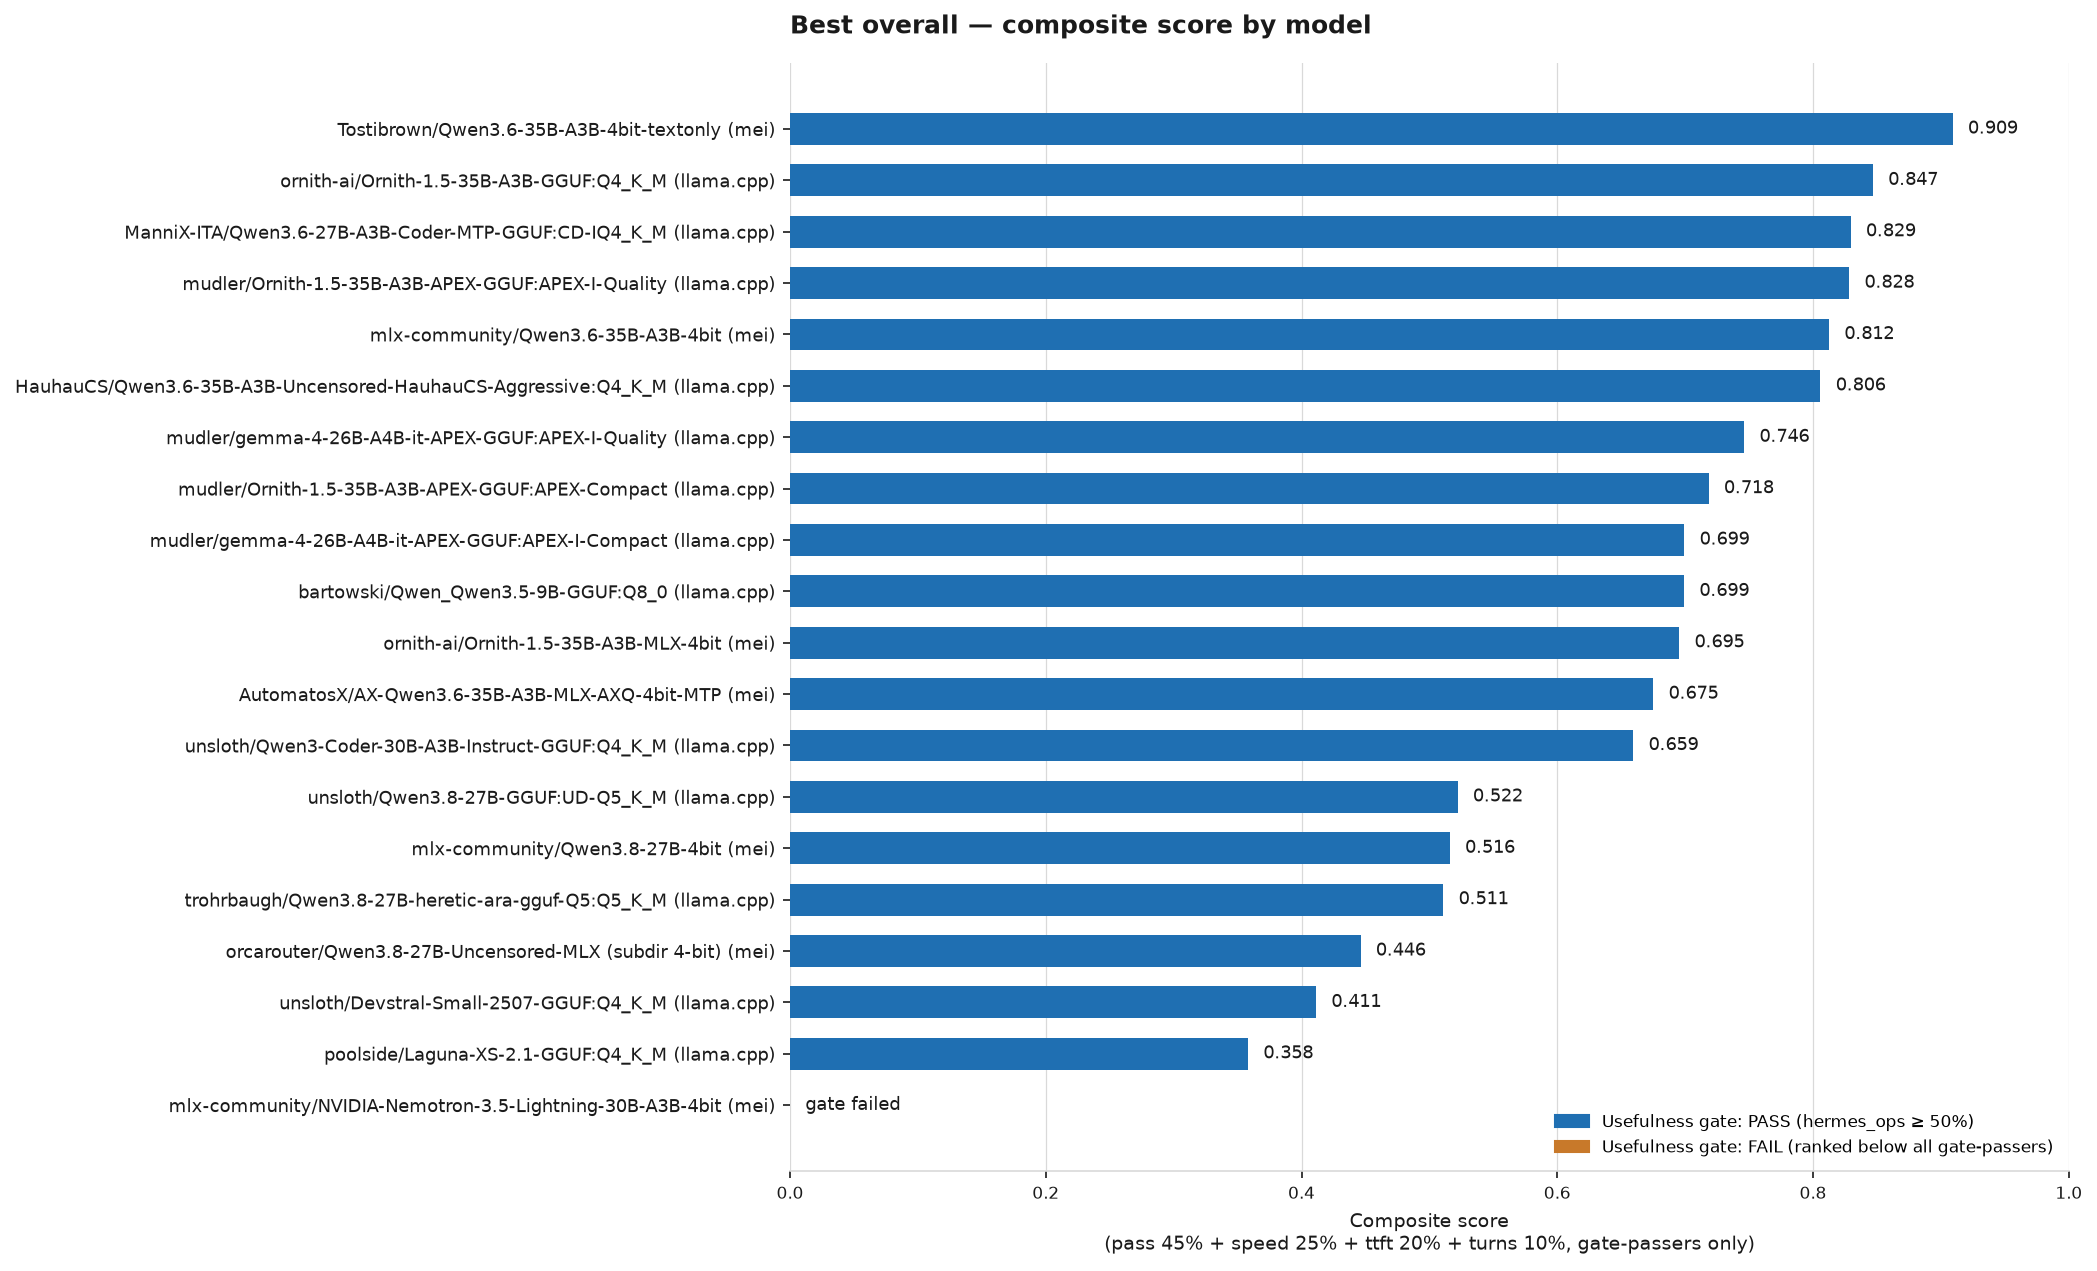
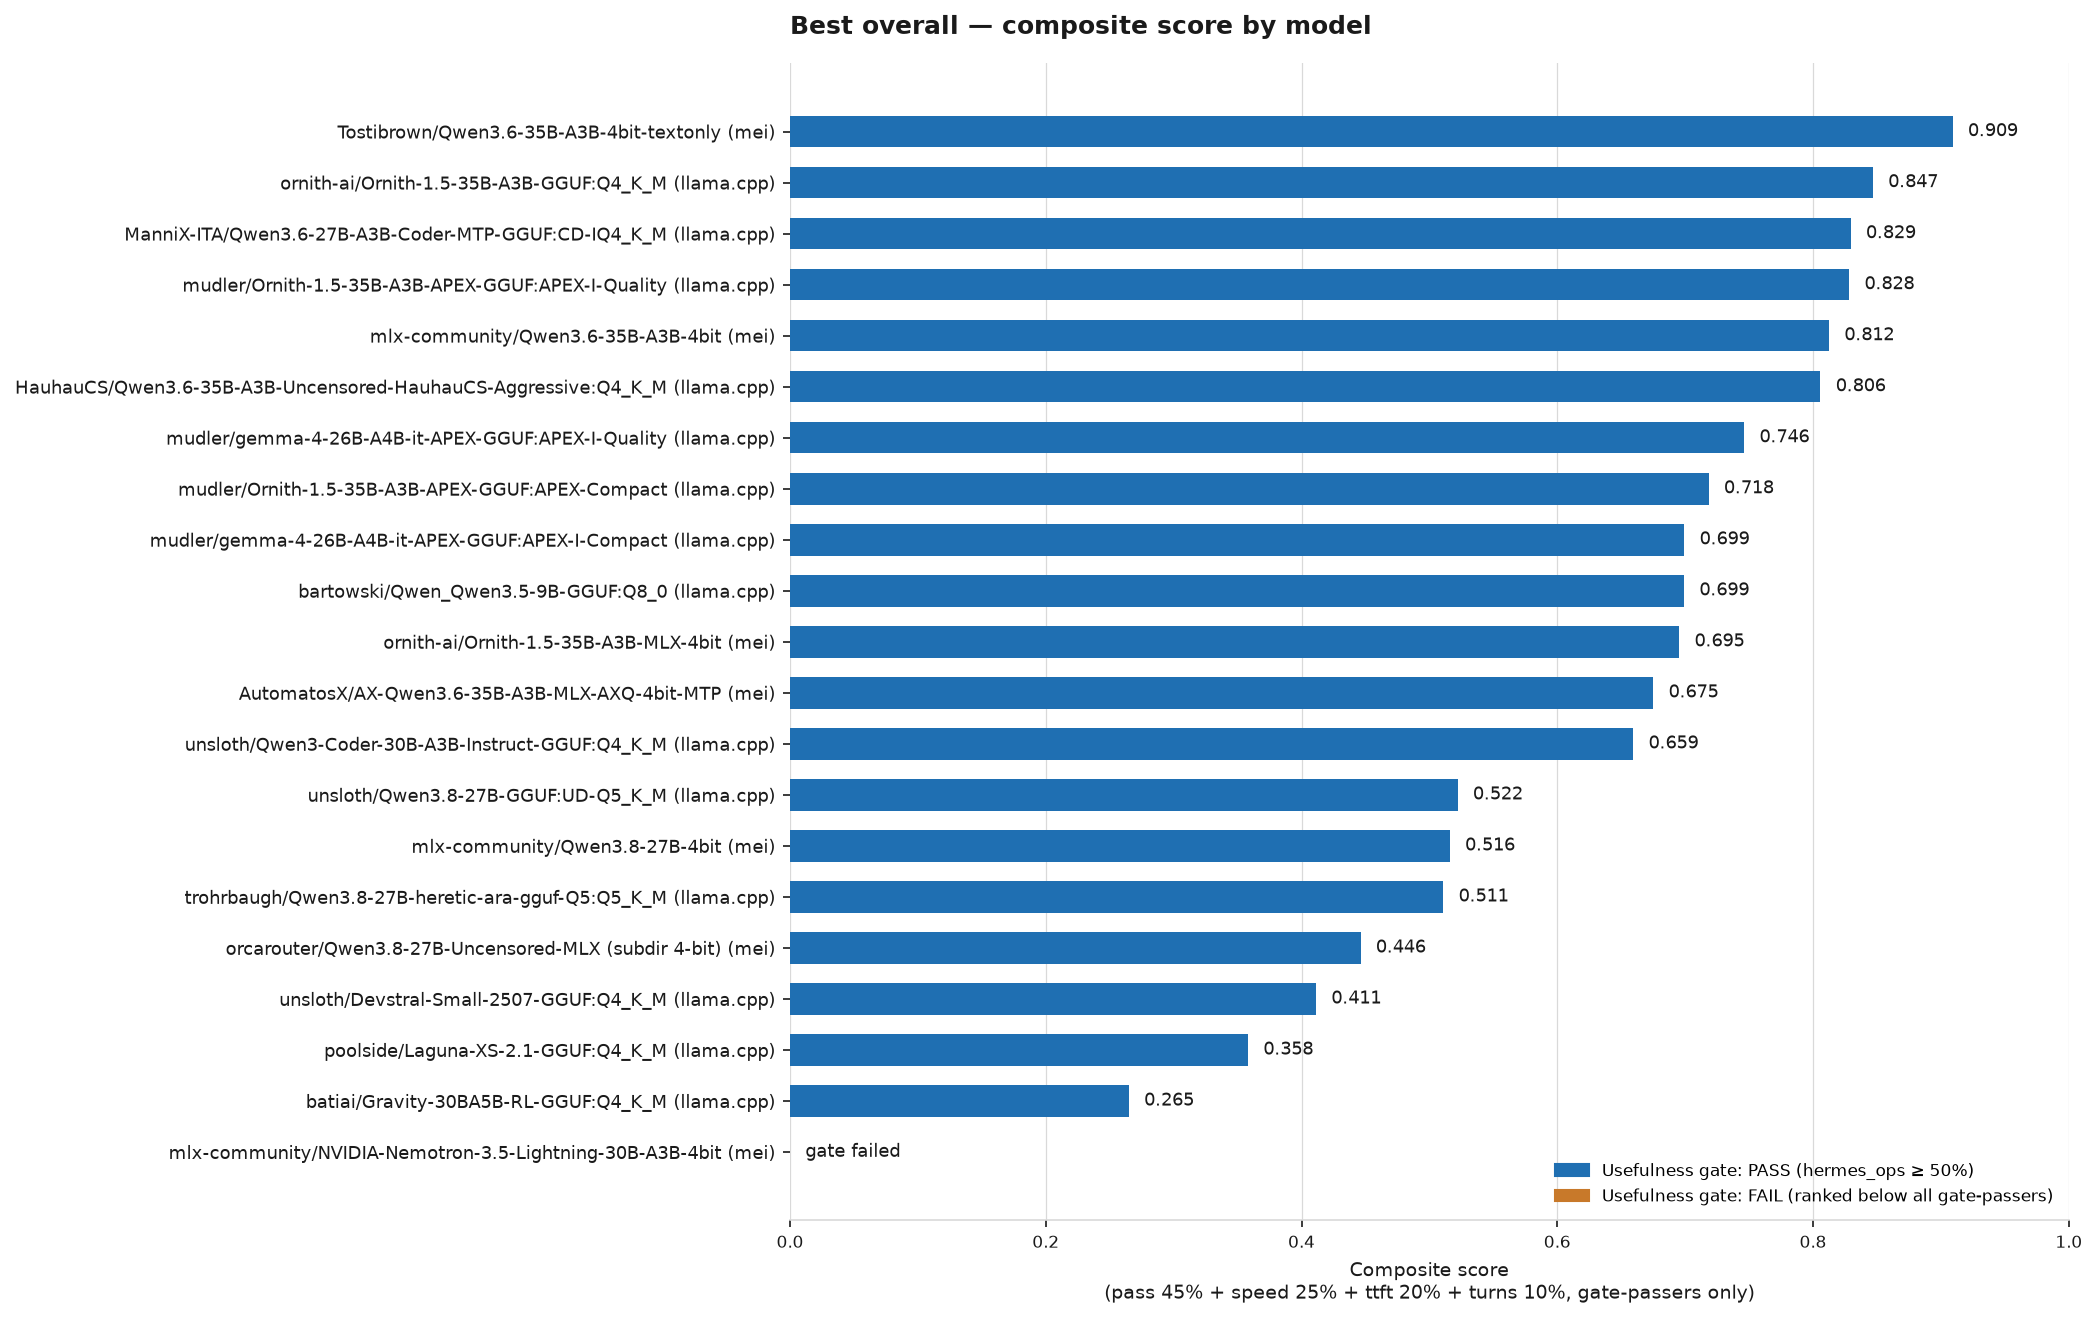
results: preserve complete Gravity RL Q4_K_M benchmark leg

diff --git a/results/LEADERBOARD.md b/results/LEADERBOARD.md
@@ -3,7 +3,7 @@
 Regenerated from `log.jsonl` by `runner/build_leaderboard.py` — do not
 hand-edit rows below, edit the log and regenerate instead.
 
-> **⚠ 138/4145 rows below predate 2026-08-21
+> **⚠ 138/4185 rows below predate 2026-08-21
 > grading fixes** (no `runner_git_sha` — that field didn't exist yet).
 > **Do not treat any pre-2026-08-21 PASS/FAIL as final signal** until
 > re-run under current grading. Known-affected checks: `kiem_mini-feature`
@@ -126,7 +126,7 @@ means no usable timestamp was recoverable from that group's rows.
 | model | engine | quant | temp (coding only)¹ | reasoning | reasoning effort⁶ | sanity gate⁴ | config | runner | tasks | pass rate⁴ | slow passes² | avg tok/s | avg TTFT (s) | hallucinated tools⁵ | avg coding turns³ | coding tool errors³ | peak RSS (GB) | quant family | cache | MTP | total runtime (s)⁷ |
 |---|---|---|---|---|---|---|---|---|---|---|---|---|---|---|---|---|---|---|---|---|---|
 | AtomicChat/Laguna-XS-2.1-MLX-5bit | mei | — | 1.0 | thinking | n/a | 2/2 | [d65c8f880447](configs/d65c8f880447.yaml) — *config since changed* | 3e8f2dbb5101+dirty | 8 | 25% | 0 | 19.0 | 68.39 | 0 | — | 0 | 1.2 | MLX 5-bit affine g64 with 8-bit router gates (per staged config.json quantization/quantization_config) | — | — | 871 |
-| AutomatosX/AX-Qwen3.6-35B-A3B-MLX-AXQ-4bit-MTP | mei | — | 0.6 | thinking | n/a | 2/2 | [984425a7e143](configs/984425a7e143.yaml) | 48e4bbe5c88c | 23 | 83% | 1 | 44.8 | 52.94 | 1 | 8.4 | 5 | 4.7 | AXQuant AXQ v1.2.0 (AutomatosX) text-path quantization of Qwen3.6-35B-A3B: config.json quantization default bits 4 / group_size 32 / mode affine with a 1045-entry per-module assignment map (16-bit bf16 574 entries — vision tower + protected norms; 8-bit affine 81 — embeddings/protected; 4-bit affine 390), preferred group 32; effective bpw 5.14 (manifest), nominal 4.66; vision.safetensors preserved BF16 (VLM quality not claimed by the packager); MTP sidecar mtp.safetensors (draft 1, MLX-LM support 'runtime-dependent'). | — | — | 4427 |
+| AutomatosX/AX-Qwen3.6-35B-A3B-MLX-AXQ-4bit-MTP | mei | — | 0.6 | thinking | n/a | 2/2 | [984425a7e143](configs/984425a7e143.yaml) — *config since changed* | 48e4bbe5c88c | 23 | 83% | 1 | 44.8 | 52.94 | 1 | 8.4 | 5 | 4.7 | AXQuant AXQ v1.2.0 (AutomatosX) text-path quantization of Qwen3.6-35B-A3B: config.json quantization default bits 4 / group_size 32 / mode affine with a 1045-entry per-module assignment map (16-bit bf16 574 entries — vision tower + protected norms; 8-bit affine 81 — embeddings/protected; 4-bit affine 390), preferred group 32; effective bpw 5.14 (manifest), nominal 4.66; vision.safetensors preserved BF16 (VLM quality not claimed by the packager); MTP sidecar mtp.safetensors (draft 1, MLX-LM support 'runtime-dependent'). | — | — | 4427 |
 | EigenLabs/Qwen3.6-35B-A3B-MLX-mixed-4bit | mei | — | 0.6 | thinking | n/a | — | [4f91b7aee214](configs/4f91b7aee214.yaml) — *config since changed* | 152872acb630 | 10 | 0% | 0 | — | — | 0 | 8.8 | 13 | 1.0 | MLX affine mixed — down/up/gate half at 6-bit, all attention 6-bit, embed 5-bit, group 64 | — | — | 2043 |
 | EigenLabs/Qwen3.6-35B-A3B-MLX-mixed-4bit | mei | — | 0.6 | thinking | n/a | — | [4f91b7aee214](configs/4f91b7aee214.yaml) — *config since changed* | 377e1af4c7cf | 15 | 67% | 0 | — | — | 0 | 10.6 | 24 | 1.1 | MLX affine mixed — down/up/gate half at 6-bit, all attention 6-bit, embed 5-bit, group 64 | — | — | 2433 |
 | HauhauCS/Qwen3.6-35B-A3B-Uncensored-HauhauCS-Aggressive:Q4_K_M | llama.cpp | — | 0.6 | thinking | n/a | 2/2 | [6fa6f52fdc56](configs/6fa6f52fdc56.yaml) — *config since changed* | 5fc289161e34 | 8 | 75% | 0 | 43.9 | 7.05 | 0 | — | 0 | 23.1 | — | — | — | 342 |
@@ -253,6 +253,11 @@ means no usable timestamp was recoverable from that group's rows.
 | bartowski/Qwen_Qwen3.5-9B-GGUF:Q8_0 | llama.cpp | — | 0.6 | thinking | n/a | 2/2 | [a2d241742068](configs/a2d241742068.yaml) | 38836484bab4 | 19 | 68% | 3 | 32.0 | 9.34 | 0 | 21.8 | 29 | 21.1 | — | — | — | 4195 |
 | bartowski/Qwen_Qwen3.5-9B-GGUF:Q8_0 | llama.cpp | — | 0.6 | thinking | n/a | 2/2 | [a2d241742068](configs/a2d241742068.yaml) | 9df216e99cd9 | 23 | 83% | 3 | 31.9 | 9.34 | 0 | 18.7 | 33 | 21.0 | — | — | — | 4215 |
 | bartowski/Qwen_Qwen3.5-9B-GGUF:Q8_0 | llama.cpp | — | 0.6 | thinking | n/a | 2/2 | [a2d241742068](configs/a2d241742068.yaml) | c8d9bde5c6d6 | 19 | 68% | 3 | 32.0 | 9.34 | 0 | 20.9 | 29 | 22.1 | — | — | — | 4889 |
+| batiai/Gravity-30BA5B-RL-GGUF:Q4_K_M | llama.cpp | — | 0.6 | thinking | n/a | 2/2 | [34c266c25d9a](configs/34c266c25d9a.yaml) | 2ee0259d6728 | 0 | n/a (all harness errors) | 0 | 72.7 | 2.63 | 0 | — | 0 | 22.1 | GGUF Q4_K_M (BatiAI imatrix-calibrated k-quant, single-file, 19,613,407,328 B / 18.266 GiB) | — | — | 8 |
+| batiai/Gravity-30BA5B-RL-GGUF:Q4_K_M | llama.cpp | — | 0.6 | thinking | n/a | 2/2 | [34c266c25d9a](configs/34c266c25d9a.yaml) | 4d19196761e0 | 23 | 26% | 0 | 17.5 | 26.45 | 0 | — | 0 | 23.4 | GGUF Q4_K_M (BatiAI imatrix-calibrated k-quant, single-file, 19,613,407,328 B / 18.266 GiB) | — | — | 47549 |
+| batiai/Gravity-30BA5B-RL-GGUF:Q4_K_M | llama.cpp | — | 0.6 | thinking | n/a | 2/2 | [34c266c25d9a](configs/34c266c25d9a.yaml) | 4ee53065eaf4 | 2 | 100% | 0 | 33.9 | 50.23 | 0 | — | 0 | 22.2 | GGUF Q4_K_M (BatiAI imatrix-calibrated k-quant, single-file, 19,613,407,328 B / 18.266 GiB) | — | — | 249 |
+| batiai/Gravity-30BA5B-RL-GGUF:Q4_K_M | llama.cpp | — | 0.6 | thinking | n/a | 2/2 | [34c266c25d9a](configs/34c266c25d9a.yaml) | 53920dc41d65 | 3 | 100% | 0 | 28.7 | 42.24 | 0 | — | 0 | 22.2 | GGUF Q4_K_M (BatiAI imatrix-calibrated k-quant, single-file, 19,613,407,328 B / 18.266 GiB) | — | — | 295 |
+| batiai/Gravity-30BA5B-RL-GGUF:Q4_K_M | llama.cpp | — | 0.6 | thinking | n/a | 2/2 | [34c266c25d9a](configs/34c266c25d9a.yaml) | bcb8e73140f7 | 2 | 100% | 0 | 34.0 | 50.16 | 0 | — | 0 | 22.2 | GGUF Q4_K_M (BatiAI imatrix-calibrated k-quant, single-file, 19,613,407,328 B / 18.266 GiB) | — | — | 248 |
 | empero-ai/Qwen3.8-27B-Ridge-GGUF | gguf | — | ? | ? | ? | 2/2 | [6a3700901e2b](configs/Qwen3.8-27B-Ridge/gguf.yaml) (unsnapshotted, predates 2026-08-21 fix — may not match) — *config since changed* | *(predates tracking)* | 4 | 50% | 0 | 7.9 | 52.03 | 0 | — | 0 | — | ? | ? | ? | 1756 |
 | empero-ai/Qwen3.8-27B-Ridge-GGUF | gguf | — | 0.7 | instruct | n/a | 2/2 | [d135df9d860f](configs/d135df9d860f.yaml) — *config since changed* | e155170f4c1d | 8 | 62% | 0 | 7.8 | 30.15 | 0 | — | 0 | 18.9 | — | — | — | 1146 |
 | empero-ai/Qwen3.8-27B-Ridge-GGUF | llama.cpp | — | 0.7 | instruct | n/a | 2/2 | [7b1d82c8abab](configs/7b1d82c8abab.yaml) — *config since changed* | a58bee1684ac | 19 | 84% | 8 | 7.8 | 30.14 | 0 | — | 0 | 20.8 | — | — | — | 6945 |
@@ -498,7 +503,8 @@ most total coding+hermes_ops evidence, then recency.
 | 17 | orcarouter/Qwen3.8-27B-Uncensored-MLX (subdir 4-bit) | mei | — | thinking | 40fbffd03a95 | PASS (62%, 8) | 0.446 | 73% (15) | 19.3 tok/s | 304.51s | 26902 | 15.3 |
 | 18 | unsloth/Devstral-Small-2507-GGUF:Q4_K_M | llama.cpp | — | n/a | ffa862c18cff | PASS (75%, 8) | 0.411 | 60% (15) | 10.0 tok/s | 28.10s | 15872 | 27.9 |
 | 19 | poolside/Laguna-XS-2.1-GGUF:Q4_K_M | llama.cpp | — | thinking | 644ba3997136 | PASS (50%, 8) | 0.358 | 87% (15) | — | — | 2840 | 25.3 |
-| 20 | mlx-community/NVIDIA-Nemotron-3.5-Lightning-30B-A3B-4bit | mei | — | thinking | d9be6d0097ea | FAIL (12%, 8) | — | 27% (15) | — | — | 5440 | 11.3 |
+| 20 | batiai/Gravity-30BA5B-RL-GGUF:Q4_K_M | llama.cpp | — | thinking | 34c266c25d9a | PASS (75%, 8) | 0.265 | 0% (15) | 17.5 tok/s | 26.45s | 47549 | 40.0 |
+| 21 | mlx-community/NVIDIA-Nemotron-3.5-Lightning-30B-A3B-4bit | mei | — | thinking | d9be6d0097ea | FAIL (12%, 8) | — | 27% (15) | — | — | 5440 | 11.3 |
 
 ![Best overall composite score by model](score_chart.png)
 
@@ -923,6 +929,19 @@ confirmed-stable, just untested for flakiness.
 | bartowski/Qwen_Qwen3.5-9B-GGUF:Q8_0 | llama.cpp | a2d241742068 | c8d9bde5c6d6 | kiem_mini | 2/5 |
 | bartowski/Qwen_Qwen3.5-9B-GGUF:Q8_0 | llama.cpp | a2d241742068 | c8d9bde5c6d6 | kipclip_mini | 2/3 |
 | bartowski/Qwen_Qwen3.5-9B-GGUF:Q8_0 | llama.cpp | a2d241742068 | c8d9bde5c6d6 | sanity | 2/2 |
+| batiai/Gravity-30BA5B-RL-GGUF:Q4_K_M | llama.cpp | 34c266c25d9a | 2ee0259d6728 | sanity | 2/2 |
+| batiai/Gravity-30BA5B-RL-GGUF:Q4_K_M | llama.cpp | 34c266c25d9a | 4d19196761e0 | hearth_full | 0/3 |
+| batiai/Gravity-30BA5B-RL-GGUF:Q4_K_M | llama.cpp | 34c266c25d9a | 4d19196761e0 | hearth_mini | 0/3 |
+| batiai/Gravity-30BA5B-RL-GGUF:Q4_K_M | llama.cpp | 34c266c25d9a | 4d19196761e0 | hermes_ops | 6/8 |
+| batiai/Gravity-30BA5B-RL-GGUF:Q4_K_M | llama.cpp | 34c266c25d9a | 4d19196761e0 | kiem_mini | 0/5 |
+| batiai/Gravity-30BA5B-RL-GGUF:Q4_K_M | llama.cpp | 34c266c25d9a | 4d19196761e0 | kipclip_mini | 0/4 |
+| batiai/Gravity-30BA5B-RL-GGUF:Q4_K_M | llama.cpp | 34c266c25d9a | 4d19196761e0 | sanity | 2/2 |
+| batiai/Gravity-30BA5B-RL-GGUF:Q4_K_M | llama.cpp | 34c266c25d9a | 4ee53065eaf4 | hermes_ops | 2/2 |
+| batiai/Gravity-30BA5B-RL-GGUF:Q4_K_M | llama.cpp | 34c266c25d9a | 4ee53065eaf4 | sanity | 2/2 |
+| batiai/Gravity-30BA5B-RL-GGUF:Q4_K_M | llama.cpp | 34c266c25d9a | 53920dc41d65 | hermes_ops | 3/3 |
+| batiai/Gravity-30BA5B-RL-GGUF:Q4_K_M | llama.cpp | 34c266c25d9a | 53920dc41d65 | sanity | 2/2 |
+| batiai/Gravity-30BA5B-RL-GGUF:Q4_K_M | llama.cpp | 34c266c25d9a | bcb8e73140f7 | hermes_ops | 2/2 |
+| batiai/Gravity-30BA5B-RL-GGUF:Q4_K_M | llama.cpp | 34c266c25d9a | bcb8e73140f7 | sanity | 2/2 |
 | empero-ai/Qwen3.8-27B-Ridge-GGUF | gguf | 6a3700901e2b | *(predates tracking)* | hermes_ops | 1/3 |
 | empero-ai/Qwen3.8-27B-Ridge-GGUF | gguf | 6a3700901e2b | *(predates tracking)* | kiem_mini | 1/1 |
 | empero-ai/Qwen3.8-27B-Ridge-GGUF | gguf | 6a3700901e2b | *(predates tracking)* | sanity | 2/2 |
@@ -1641,6 +1660,7 @@ advertised as runnable current paths.
 
 | engine | models (retired configs) | expansion |
 |---|---|---|
+| mei | 1 configs | configs/AX-Qwen3.6-35B-A3B-MLX-AXQ-6bit-MTP/mei.yaml |
 | omlx | 18 configs | configs/LFM2.5-8B-A1B-oQ4e-fp16/omlx-hot.yaml; configs/LFM2.5-8B-A1B-oQ4e-fp16/omlx-ssd.yaml; configs/LFM2.5-8B-A1B-oQ4e-fp16/omlx.yaml; configs/Laguna-XS-2.1/omlx.yaml; configs/LiquidAI-LFM2.5-2.6B/omlx.yaml; configs/LiquidAI-LFM2.5-8B-A1B/omlx.yaml; configs/Ornith-1.5-9B-oQ4e-fp16/omlx-hot.yaml; configs/Ornith-1.5-9B-oQ4e-fp16/omlx-ssd.yaml; configs/Ornith-1.5-9B-oQ4e-fp16/omlx.yaml; configs/Qwen3-Coder-30B-A3B/omlx.yaml; configs/Qwen3.8-27B/omlx.yaml; configs/Qwen3.8-27B-oQ4e-fp16-mtp/omlx-context-balanced.yaml; configs/Qwen3.8-27B-oQ4e-fp16-mtp/omlx-hot.yaml; configs/Qwen3.8-27B-oQ4e-fp16-mtp/omlx-mtp-xhigh.yaml; configs/Qwen3.8-27B-oQ4e-fp16-mtp/omlx-mtp.yaml; configs/Qwen3.8-27B-oQ4e-fp16-mtp/omlx-ssd.yaml; configs/Qwen3.8-27B-oQ4e-fp16-mtp/omlx.yaml; configs/Ternary-Bonsai-27B/omlx.yaml |
 | vllm-mlx | 12 configs | configs/Devstral-Small-2507/mlx.yaml; configs/Laguna-XS-2.1/mlx.yaml; configs/LiquidAI-LFM2.5-2.6B/mlx-8bit.yaml; configs/LiquidAI-LFM2.5-2.6B/mlx.yaml; configs/LiquidAI-LFM2.5-8B-A1B/mlx-8bit.yaml; configs/LiquidAI-LFM2.5-8B-A1B/mlx.yaml; configs/Ornith-1.5-35B-A3B/mlx.yaml; configs/Ornith-1.5-9B/mlx.yaml; configs/Qwen2.5-Coder-14B/mlx.yaml; configs/Qwen3-Coder-30B-A3B/mlx.yaml; configs/Qwen3.8-27B/mlx.yaml; configs/Ternary-Bonsai-27B/mlx.yaml |
 

diff --git a/artifacts/gravity-rl-q4km-complete-20260922.md b/artifacts/gravity-rl-q4km-complete-20260922.md
@@ -1,0 +1,94 @@
+# Gravity RL Q4_K_M complete benchmark leg — 2026-09-21/22
+
+**Status: COMPLETE CURRENT-METHODOLOGY COVERAGE / REVIEWED / RANKED WITH MODEL-LEVEL FAILURES.**
+This is the clean successor to the four earlier interrupted fragments. It has a
+new runner SHA and is not merged with those partial groups.
+
+## Run identity and provenance
+
+- Model: `batiai/Gravity-30BA5B-RL-GGUF:Q4_K_M`
+- Engine: `llama.cpp`
+- Config: `configs/Gravity-30BA5B-RL-GGUF/gguf-q4km.yaml`
[1 lines of base64/hex data omitted]
+  (`config_hash: 34c266c25d9a`)
+- Config snapshot: `results/configs/34c266c25d9a.yaml`, byte-identical to the
+  live config and the committed config at run start
+- Runner SHA recorded by all 25 rows: `4d19196761e0`
+  (`4d19196761e0c9e11392c40b24f14a76ab96bb14` at launch)
+- Command: `uv run --locked python runner/run_bench.py --config configs/Gravity-30BA5B-RL-GGUF/gguf-q4km.yaml`
+- Run window: `2026-09-21T22:19:22Z` through `2026-09-22T11:31:50Z`
+  (47,548 seconds between first and last row)
+- Server: `runner/.dspark-head/build/bin/llama-server`, version
+  `0.1.2-dev (build 1, commit a302733)`, AppleClang arm64
+- Served alias: `bench-34c266c25d9a`; provider: `qwen-gguf`; port: 8017
+- Artifact: `Gravity-30BA5B-RL-Q4_K_M.gguf`, revision
+  `ae61d230482a5a6efa869bc6b72fb784bb630cdb`, 19,613,407,328 bytes,
[1 lines of base64/hex data omitted]
+  (independently rehashed after the run)
+
+## Coverage and outcomes
+
+Exactly 25 new rows were appended under `(34c266c25d9a, 4d19196761e0)`:
+
+- `sanity`: 2/2 pass
+- `hermes_ops`: 6/8 pass; `hermes_ops-noisy-result` and
+  `hermes_ops-multi-step-chain` failed with model-side stream-stall errors after
+  partial tool-call progress
+- `kiem_mini`: 0/5 pass; all five tasks reached the 3,000-second coding-task
+  timeout
+- `hearth_mini`: 0/3 pass; all three reached the 3,000-second timeout
+- `kipclip_mini`: 0/4 pass; all four reached the 3,000-second timeout
+- `hearth_full`: 0/3 pass; all three reached the 3,000-second timeout
+
+Total row result: 8/25 pass. The leaderboard's scored view excludes the two
+sanity rows: 6/23 pass (26%). All 25 rows have `harness_error: false`.
+
+The hermes_ops throughput values were
+`1.22, 10.92, 10.15, 11.42, 0.25, 0.12, 11.17, 12.02` tok/s, averaging
+7.15875 tok/s. This clears the 4.0 tok/s speed gate, so coding was correctly
+attempted and no speed-gate row was written.
+
+The two hermes_ops failures are not malformed-tool or transport classifications:
+the raw prompt-result JSON contains partial valid tool-call sequences and then
+`run_error` set to `stream stalled (turn_total)`. The 15 coding rows have
+`harness_error: false`, `hermes_exit_code: -1`, and `TIMEOUT after 3000s`.
+Their transcript files contain the exact timeout marker. The archived server log
+shows sustained decode on the final cancelled task, reaching 26,708 generated
+tokens at about 9.56 tok/s before `stop: cancel task`; this supports the
+harness/model slow-budget classification rather than a dead server or harness
+crash. No harness errors were observed.
+
+## Durable evidence and teardown
+
+- `results/log.jsonl`: 4,185 rows after the append; SHA-256
[1 lines of base64/hex data omitted]
+- `results/LEADERBOARD.md`: regenerated from 4,185 rows; SHA-256
[1 lines of base64/hex data omitted]
+- `results/score_chart.png`: regenerated with 21 groups; SHA-256
[1 lines of base64/hex data omitted]
+- Runner trace:
+  `/Users/tijs/.local/share/local-model-bench/results-mei/Gravity-30BA5B-RL-GGUF/runner-20260921T221800Z-config-34c266c25d9a.log`
[1 lines of base64/hex data omitted]
+- Server log:
+  `/Users/tijs/.local/share/local-model-bench/results-mei/Gravity-30BA5B-RL-GGUF/runner-20260921T221800Z-config-34c266c25d9a/server.log`
[1 lines of base64/hex data omitted]
+- Fifteen coding timeout transcripts are present under
+  `results/transcripts/{kiem_mini,hearth_mini,kipclip_mini,hearth_full}/` with
+  the current run's UTC prefixes and served-model slug.
+- Runner exit was 0. Its teardown ran; port 8017 and all benchmark-owned server,
+  runner, prompt-worker, and probe processes were absent at review. CoCore and
+  unrelated Hermes infrastructure were untouched.
+
+The four interrupted predecessor fragments remain append-only and separately
+grouped under runner SHAs `bcb8e73140f7`, `2ee0259d6728`, `53920dc41d65`, and
+`4ee53065eaf4`. They are not counted in this complete leg.
+
+## Decision boundary
+
+The Gravity RL arm now has a complete, reproducible 25-row leg, but its coding
+quality is unusable on this hardware under the current 3,000-second task budget:
+all 15 coding tasks timed out while the model continued decoding. Keep this
+measured result separate from the gated Gravity Base slot. Do not retry this
+same leg without a concrete model/runtime/timeout hypothesis; the next queue
+unit is the separately gated Gravity Base candidate, subject to its own artifact,
+resource, native gate, and single-writer checks.
